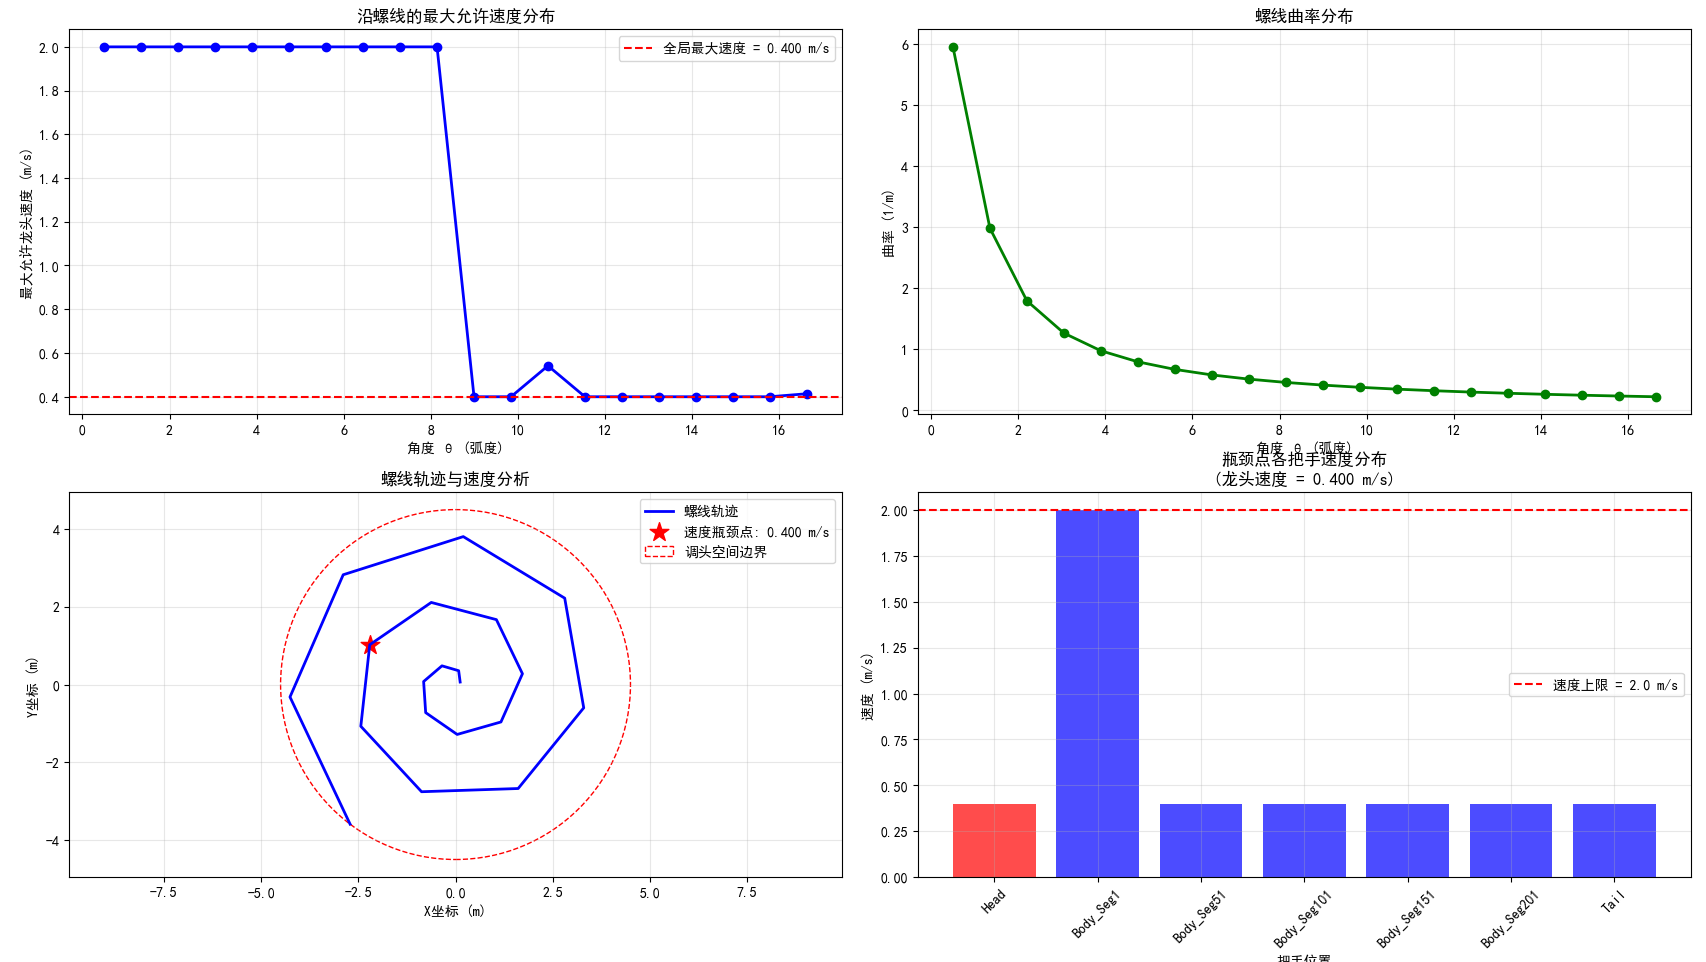
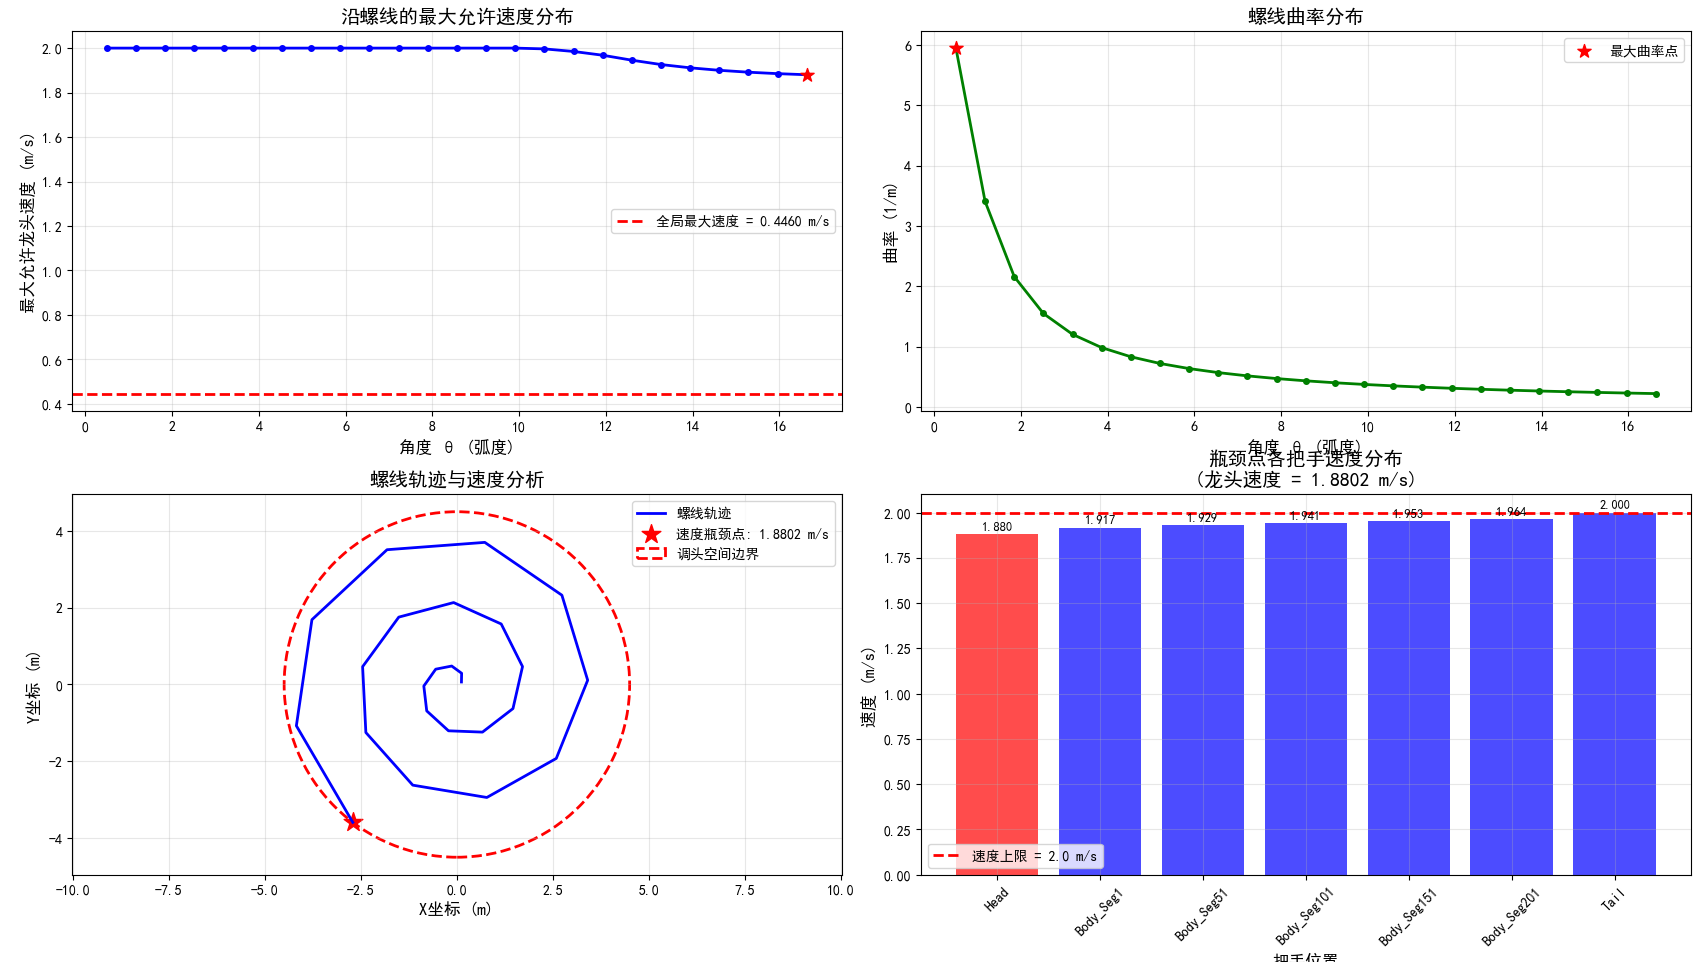
更改问题5生成的图像

diff --git a/Problem5.py b/Problem5.py
@@ -326,91 +326,102 @@ class Problem5SpeedOptimization:
     
     def visualize_speed_analysis(self, spiral_analysis, global_max_speed):
         """
-        可视化速度分析结果
+        可视化速度分析结果 - 4个子图完整分析
         """
         fig, ((ax1, ax2), (ax3, ax4)) = plt.subplots(2, 2, figsize=(16, 12))
         
-        theta_values = spiral_analysis['theta']
-        curvature_values = spiral_analysis['curvature']
-        max_speeds = spiral_analysis['max_head_speed']
+        # 1. 螺线路径上的最大允许速度分布
+        ax1.plot(spiral_analysis['theta'], spiral_analysis['max_head_speed'], 'b-o', linewidth=2, markersize=4)
+        ax1.axhline(y=global_max_speed, color='r', linestyle='--', linewidth=2,
+                   label=f'全局最大速度 = {global_max_speed:.4f} m/s')
+        ax1.set_xlabel('角度 θ (弧度)', fontsize=12)
+        ax1.set_ylabel('最大允许龙头速度 (m/s)', fontsize=12)
+        ax1.set_title('沿螺线的最大允许速度分布', fontsize=14, fontweight='bold')
+        ax1.legend()
+        ax1.grid(True, alpha=0.3)
         
-        # 1. 螺线路径与曲率
-        ax1.set_title('螺线路径与曲率分布', fontsize=14, fontweight='bold')
+        # 标记瓶颈点
+        min_speed_idx = spiral_analysis['max_head_speed'].idxmin()
+        bottleneck = spiral_analysis.iloc[min_speed_idx]
+        ax1.scatter(bottleneck['theta'], bottleneck['max_head_speed'], 
+                   color='red', s=100, marker='*', zorder=5)
         
-        # 绘制螺线路径
-        a = self.spiral_pitch / (2 * np.pi)
+        # 2. 曲率分布
+        ax2.plot(spiral_analysis['theta'], spiral_analysis['curvature'], 'g-o', linewidth=2, markersize=4)
+        ax2.set_xlabel('角度 θ (弧度)', fontsize=12)
+        ax2.set_ylabel('曲率 (1/m)', fontsize=12)
+        ax2.set_title('螺线曲率分布', fontsize=14, fontweight='bold')
+        ax2.grid(True, alpha=0.3)
+        
+        # 标记最大曲率点
+        max_curvature_idx = spiral_analysis['curvature'].idxmax()
+        max_curvature_point = spiral_analysis.iloc[max_curvature_idx]
+        ax2.scatter(max_curvature_point['theta'], max_curvature_point['curvature'], 
+                   color='red', s=100, marker='*', zorder=5, label='最大曲率点')
+        ax2.legend()
+        
+        # 3. 螺线轨迹和速度标注
+        # 计算螺线轨迹坐标
         x_coords = []
         y_coords = []
-        
-        for theta in theta_values:
-            r = a * theta
-            x = r * np.cos(theta)
-            y = r * np.sin(theta)
+        for _, row in spiral_analysis.iterrows():
+            r, x, y = self.spiral_equation(row['theta'], is_outward=False)
             x_coords.append(x)
             y_coords.append(y)
         
-        # 用曲率着色
-        scatter = ax1.scatter(x_coords, y_coords, c=curvature_values, 
-                            cmap='viridis', s=20, alpha=0.7)
-        ax1.set_xlabel('X坐标 (m)')
-        ax1.set_ylabel('Y坐标 (m)')
-        ax1.set_aspect('equal')
-        ax1.grid(True, alpha=0.3)
+        ax3.plot(x_coords, y_coords, 'b-', linewidth=2, label='螺线轨迹')
         
-        # 添加颜色条
-        cbar1 = plt.colorbar(scatter, ax=ax1)
-        cbar1.set_label('曲率 (1/m)')
+        # 标注速度瓶颈点
+        bottleneck_r, bottleneck_x, bottleneck_y = self.spiral_equation(bottleneck['theta'], is_outward=False)
+        ax3.scatter(bottleneck_x, bottleneck_y, color='red', s=200, marker='*', 
+                   label=f'速度瓶颈点: {bottleneck["max_head_speed"]:.4f} m/s')
         
-        # 2. 曲率随角度变化
-        ax2.plot(theta_values, curvature_values, 'b-', linewidth=2)
-        ax2.set_title('曲率沿螺线角度的变化', fontsize=14, fontweight='bold')
-        ax2.set_xlabel('螺线角度 θ (rad)')
-        ax2.set_ylabel('曲率 κ (1/m)')
-        ax2.grid(True, alpha=0.3)
+        # 调头空间边界
+        circle = plt.Circle((0, 0), self.turnaround_radius, fill=False, color='red', 
+                           linestyle='--', linewidth=2, label='调头空间边界')
+        ax3.add_patch(circle)
         
-        # 标记最高曲率点
-        max_curvature_idx = np.argmax(curvature_values)
-        ax2.scatter(theta_values.iloc[max_curvature_idx], curvature_values.iloc[max_curvature_idx], 
-                   color='red', s=100, zorder=5, label='最大曲率点')
-        ax2.legend()
-        
-        # 3. 允许的最大龙头速度
-        ax3.plot(theta_values, max_speeds, 'g-', linewidth=2, label='最大允许速度')
-        ax3.axhline(y=global_max_speed, color='red', linestyle='--', linewidth=2, 
-                   label=f'全局最大速度: {global_max_speed:.4f} m/s')
-        ax3.set_title('最大允许龙头速度分布', fontsize=14, fontweight='bold')
-        ax3.set_xlabel('螺线角度 θ (rad)')
-        ax3.set_ylabel('速度 (m/s)')
-        ax3.grid(True, alpha=0.3)
+        ax3.set_xlabel('X坐标 (m)', fontsize=12)
+        ax3.set_ylabel('Y坐标 (m)', fontsize=12)
+        ax3.set_title('螺线轨迹与速度分析', fontsize=14, fontweight='bold')
         ax3.legend()
+        ax3.grid(True, alpha=0.3)
+        ax3.axis('equal')
         
-        # 标记瓶颈位置
-        min_speed_idx = np.argmin(max_speeds)
-        ax3.scatter(theta_values.iloc[min_speed_idx], max_speeds.iloc[min_speed_idx], 
-                   color='red', s=100, zorder=5)
+        # 4. 各把手速度对比（在瓶颈点）
+        bottleneck_speeds = self.calculate_speed_ratios(bottleneck['theta'], bottleneck['max_head_speed'])
         
-        # 4. 速度放大因子分析
-        amplification_factors = []
+        handles = list(bottleneck_speeds.keys())
+        speeds = list(bottleneck_speeds.values())
         
-        for i, theta in enumerate(theta_values):
-            speeds = self.calculate_speed_ratios(theta, 1.0)
-            max_handle_speed = max([v for k, v in speeds.items() if k != 'Head'])
-            amplification_factors.append(max_handle_speed)
+        # 设置颜色：龙头为红色，其他为蓝色
+        colors = ['red' if handle == 'Head' else 'blue' for handle in handles]
+        bars = ax4.bar(range(len(handles)), speeds, color=colors, alpha=0.7)
         
-        ax4.plot(theta_values, amplification_factors, 'purple', linewidth=2)
-        ax4.axhline(y=2.0, color='red', linestyle='--', alpha=0.7, 
-                   label='速度限制 (2 m/s)')
-        ax4.set_title('速度放大因子 (龙头1m/s时)', fontsize=14, fontweight='bold')
-        ax4.set_xlabel('螺线角度 θ (rad)')
-        ax4.set_ylabel('最大把手速度 (m/s)')
-        ax4.grid(True, alpha=0.3)
+        # 添加速度上限线
+        ax4.axhline(y=self.max_handle_speed, color='red', linestyle='--', linewidth=2,
+                   label=f'速度上限 = {self.max_handle_speed} m/s')
+        
+        ax4.set_xlabel('把手位置', fontsize=12)
+        ax4.set_ylabel('速度 (m/s)', fontsize=12)
+        ax4.set_title(f'瓶颈点各把手速度分布\n(龙头速度 = {bottleneck["max_head_speed"]:.4f} m/s)', 
+                     fontsize=14, fontweight='bold')
+        ax4.set_xticks(range(len(handles)))
+        ax4.set_xticklabels(handles, rotation=45, fontsize=10)
         ax4.legend()
+        ax4.grid(True, alpha=0.3)
+        
+        # 在每个柱子上添加数值标签
+        for i, (bar, speed) in enumerate(zip(bars, speeds)):
+            height = bar.get_height()
+            ax4.text(bar.get_x() + bar.get_width()/2., height + 0.01,
+                    f'{speed:.3f}', ha='center', va='bottom', fontsize=9)
         
         plt.tight_layout()
         plt.savefig('problem5_speed_analysis.png', dpi=300, bbox_inches='tight')
         plt.show()
         
-        print("可视化图表已保存到 problem5_speed_analysis.png")
+        print("完整可视化图表已保存到 problem5_speed_analysis.png")
 
 # Run Problem 5 solution
 if __name__ == "__main__":
